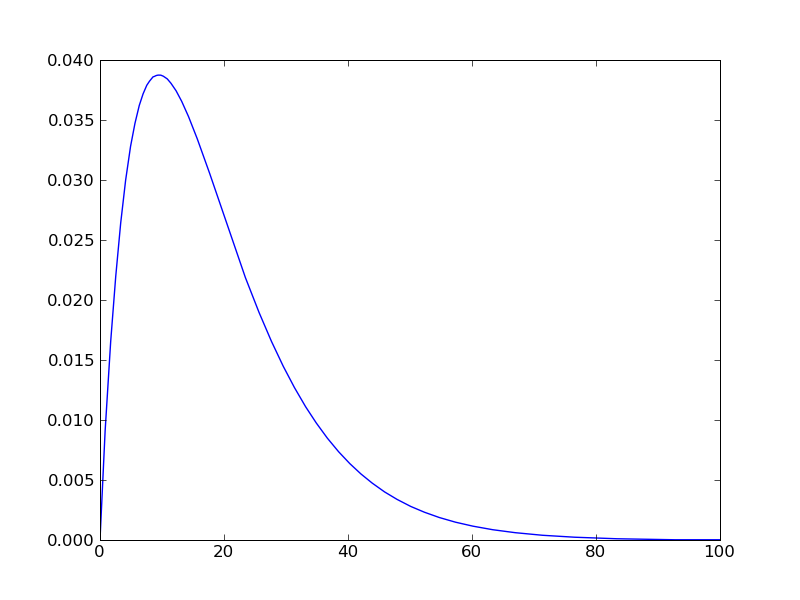
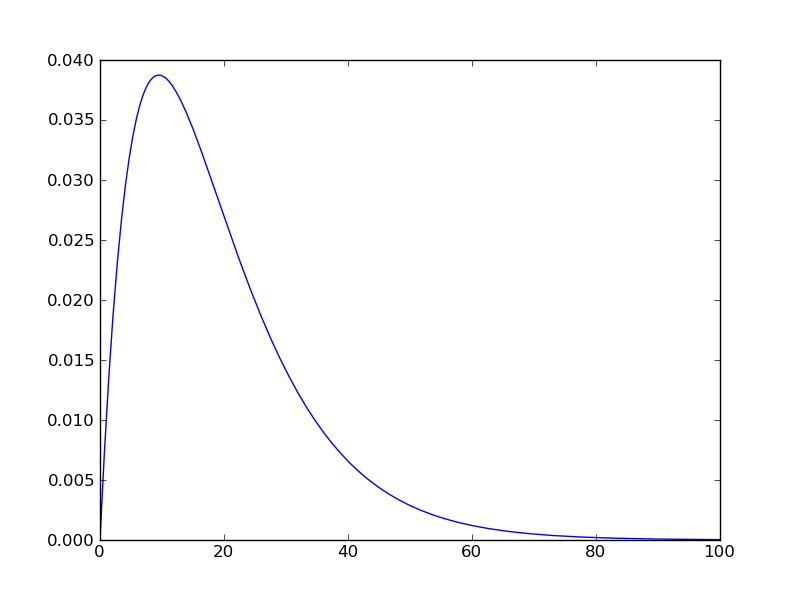
modified the Hills eq to comply with classic formalism.

diff --git a/scipy_ex/mathFunctions.py b/scipy_ex/mathFunctions.py
@@ -7,7 +7,7 @@ from pylab import *
 def hill(x,K,n):
    """
    return the result of an hill function
-   defined as y = x^n / ( K + x^n )
+   defined as y = x^n / ( K^n + x^n )
    Parameters:
       x
          point where to calculate the function
@@ -17,7 +17,7 @@ def hill(x,K,n):
          Hill coefficient -- govern the stepness of the Hill function
          
    """
-   y = pow(x, n) / (K + pow(x, n))
+   y = pow(x, n) / (pow(K, n) + pow(x, n))
 
    print "Activation coefficient (K) %d\tStepness coefficient (n) %d" %(K,n)
    return y
@@ -43,7 +43,7 @@ def plotHills():
    n=2 
    plot(x,hill(x,K,n))
    if texOn:
-      title_str = r"Hill like equation: $ y = \frac{x^{n}}{K + x^{n}}$. $n="
+      title_str = r"Hill like equation: $ y = \frac{x^{n}}{K^{n} + x^{n}}$. $n="
       title_str += "%.1f$" %n   
       title_str += r" $K="
       title_str += "%.1f$" %K
@@ -51,7 +51,7 @@ def plotHills():
 
 
    figure()
-   nList = [0, 1, 1.5, 2, 2.5, 3, 4]
+   nList = [1, 1.5, 2, 2.5, 3, 4]
    K = 5
 
    for n in nList:
@@ -59,15 +59,15 @@ def plotHills():
       plot(x,hill(x,K,n), label=r"$n$ = " + str(n))
 
       if texOn:
-        title_str = r"Hill like equation: $ y = \frac{x^{n}}{K + x^{n}}$. $n="
+        title_str = r"Hill like equation: $ y = \frac{x^{n}}{K^{n} + x^{n}}$. $n="
         title_str += "variable$"   
         title_str += r" $K="
         title_str += "%.1f$" %K
         title(title_str, fontsize=16)
    legend()
       
-   KList = [0,1,10,50,90]
-   n = 4
+   KList = [0,1,10,50,90, 100, 1000, 2000]
+   n = 3
 
    figure()
    for K in KList:
@@ -75,7 +75,7 @@ def plotHills():
       plot(x,hill(x,K,n), label=r"$K$ = " + str(K))
       
       if texOn:
-        title_str = r"Hill like equation: $ y = \frac{x^{n}}{K + x^{n}}$. $n="
+        title_str = r"Hill like equation: $ y = \frac{x^{n}}{K^{n} + x^{n}}$. $n="
         title_str += "%.1f$" %n   
         title_str += r" $K="
         title_str += "variable$"
@@ -101,7 +101,7 @@ if __name__ == "__main__":
     texOn = True
     rc('text', usetex=texOn)    # Activating Tex. Used in the plot title
     rc('font',**{'family':'sans-serif','sans-serif':['Helvetica']})
-    x = numpy.arange(0,10,0.1)
+    x = numpy.linspace(0,1)
     plotHills()
     plotMich()
 
